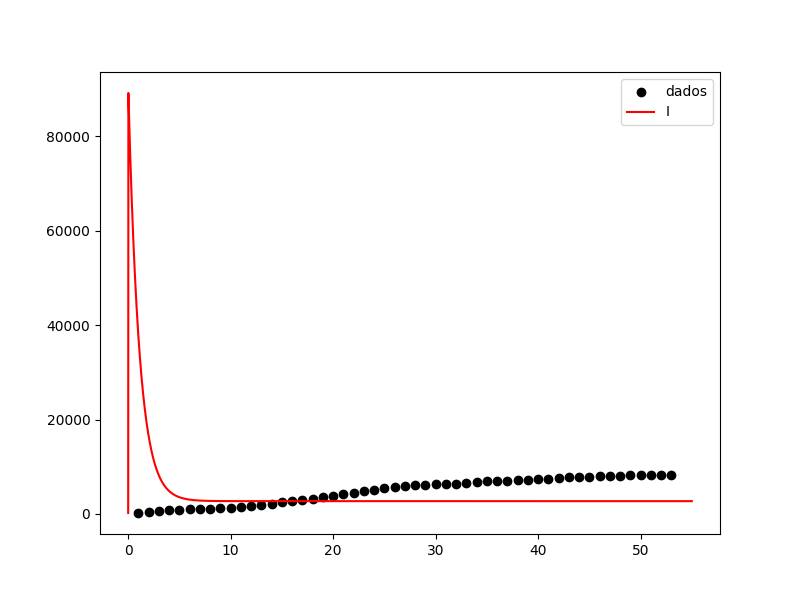
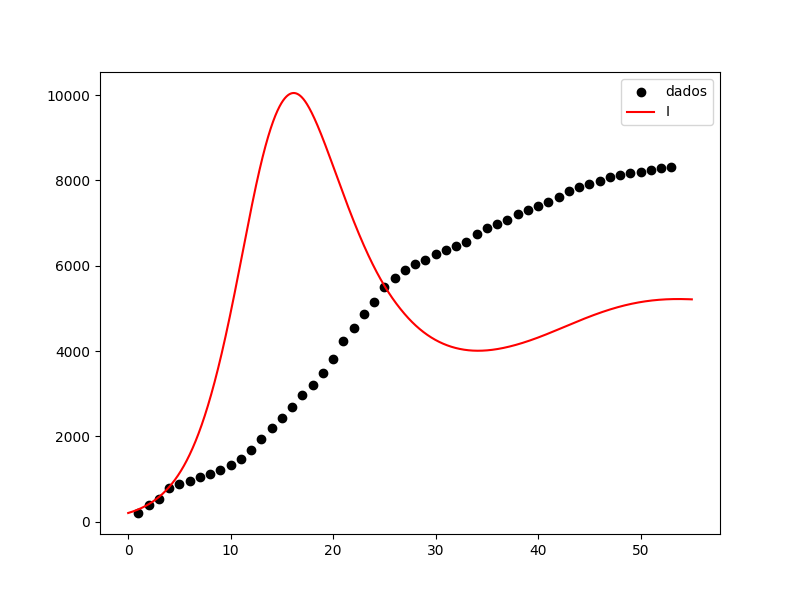
Adding obitos_2021

diff --git a/Parameter-Adjust/obitos_2021/ajuste_python_vfinal.py b/Parameter-Adjust/obitos_2021/ajuste_python_vfinal.py
@@ -1,13 +1,14 @@
+import math
+
 import numpy as np
 import pandas as pd
-from scipy.integrate import  solve_ivp
-from scipy.optimize import differential_evolution
-import math
 import matplotlib.pyplot as plt 
 
-#data_path = './I.csv'
-data_path = './casos_2021.xlsx'
-data_path = './obitos_2021.xlsx'
+from scipy.integrate import  solve_ivp
+from scipy.optimize import differential_evolution
+
+data_casos = './casos_2021.xlsx'
+data_obitos = './obitos_2021.xlsx'
 
 dt = 0.01
 tfinal = 55
@@ -82,10 +83,10 @@ def solve(x):
 
 if __name__ == "__main__":
     
-    global data, reference_times , obito
+    global data, reference_times, obito
 
-    data = pd.read_excel('./casos_2021.xlsx')
-    obito = pd.read_excel('./obitos_2021.xlsx')
+    data = pd.read_excel(data_casos)
+    obito = pd.read_excel(data_obitos)
 
     reference_times = data["Semana"]
     dados_I = data["I"]
@@ -96,15 +97,38 @@ if __name__ == "__main__":
     fig.set_size_inches(8, 6)
     plt.scatter(reference_times, dados_I, marker='o', color='black', label='dados')
     
+
+    # bounds = [
+    #     (0.00001, 0.01),
+    #     (0.01, 0.9),
+    #     (0.001, 0.9), #gama
+    #     (0.0009, 0.01), #d
+    # ]
+
     bounds = [
         (0.00001, 0.01),
         (0.01, 0.9),
-        (0.001, 0.1), #gama
-        (0.001, 0.5), #d
+        (0.001, 0.9), #gama
+        (0.0001, 0.001), #d
     ]
+    
+    # bounds = [
+    #     (0.00001, 0.01),
+    #     (0.01, 0.9),
+    #     (0.001, 0.9), #gama
+    #     (0.0001, 0.01), #d
+    # ]
+
+    #n de mortes muito bom
+    # bounds = [
+    #     (0.00001, 0.01),
+    #     (0.01, 0.9),
+    #     (0.001, 0.01), #gama
+    #     (0.001, 0.5), #d
+    # ]
 
     #chama evolução diferencial, result contém o melhor individuo
-    solucao = differential_evolution(solve, bounds, strategy='rand2bin', maxiter=50, popsize=40,atol=10**(-3), tol=10**(-3), mutation=0.8, recombination=0.5, disp=True, workers=4)
+    solucao = differential_evolution(solve, bounds, strategy='best2bin', maxiter=50, popsize=40,atol=10**(-3), tol=10**(-3), mutation=0.8, recombination=0.5, disp=True, workers=12)
     
     print(solucao.x)
     #saving the best offspring...
@@ -139,7 +163,7 @@ if __name__ == "__main__":
     fig = plt.figure()
     fig.set_size_inches(8, 6)
     plt.scatter(reference_times, dados_obitos, marker='o', color='pink', label='dados')
-    plt.plot(result_best.t, result_best.y[3,:], color='grey', label='M')
+    plt.plot(result_best.t, result_best.y[3,:], color='black', label='M')
     plt.legend(loc='best')    
     fig.savefig('M.png', format='png')
     plt.show()  
